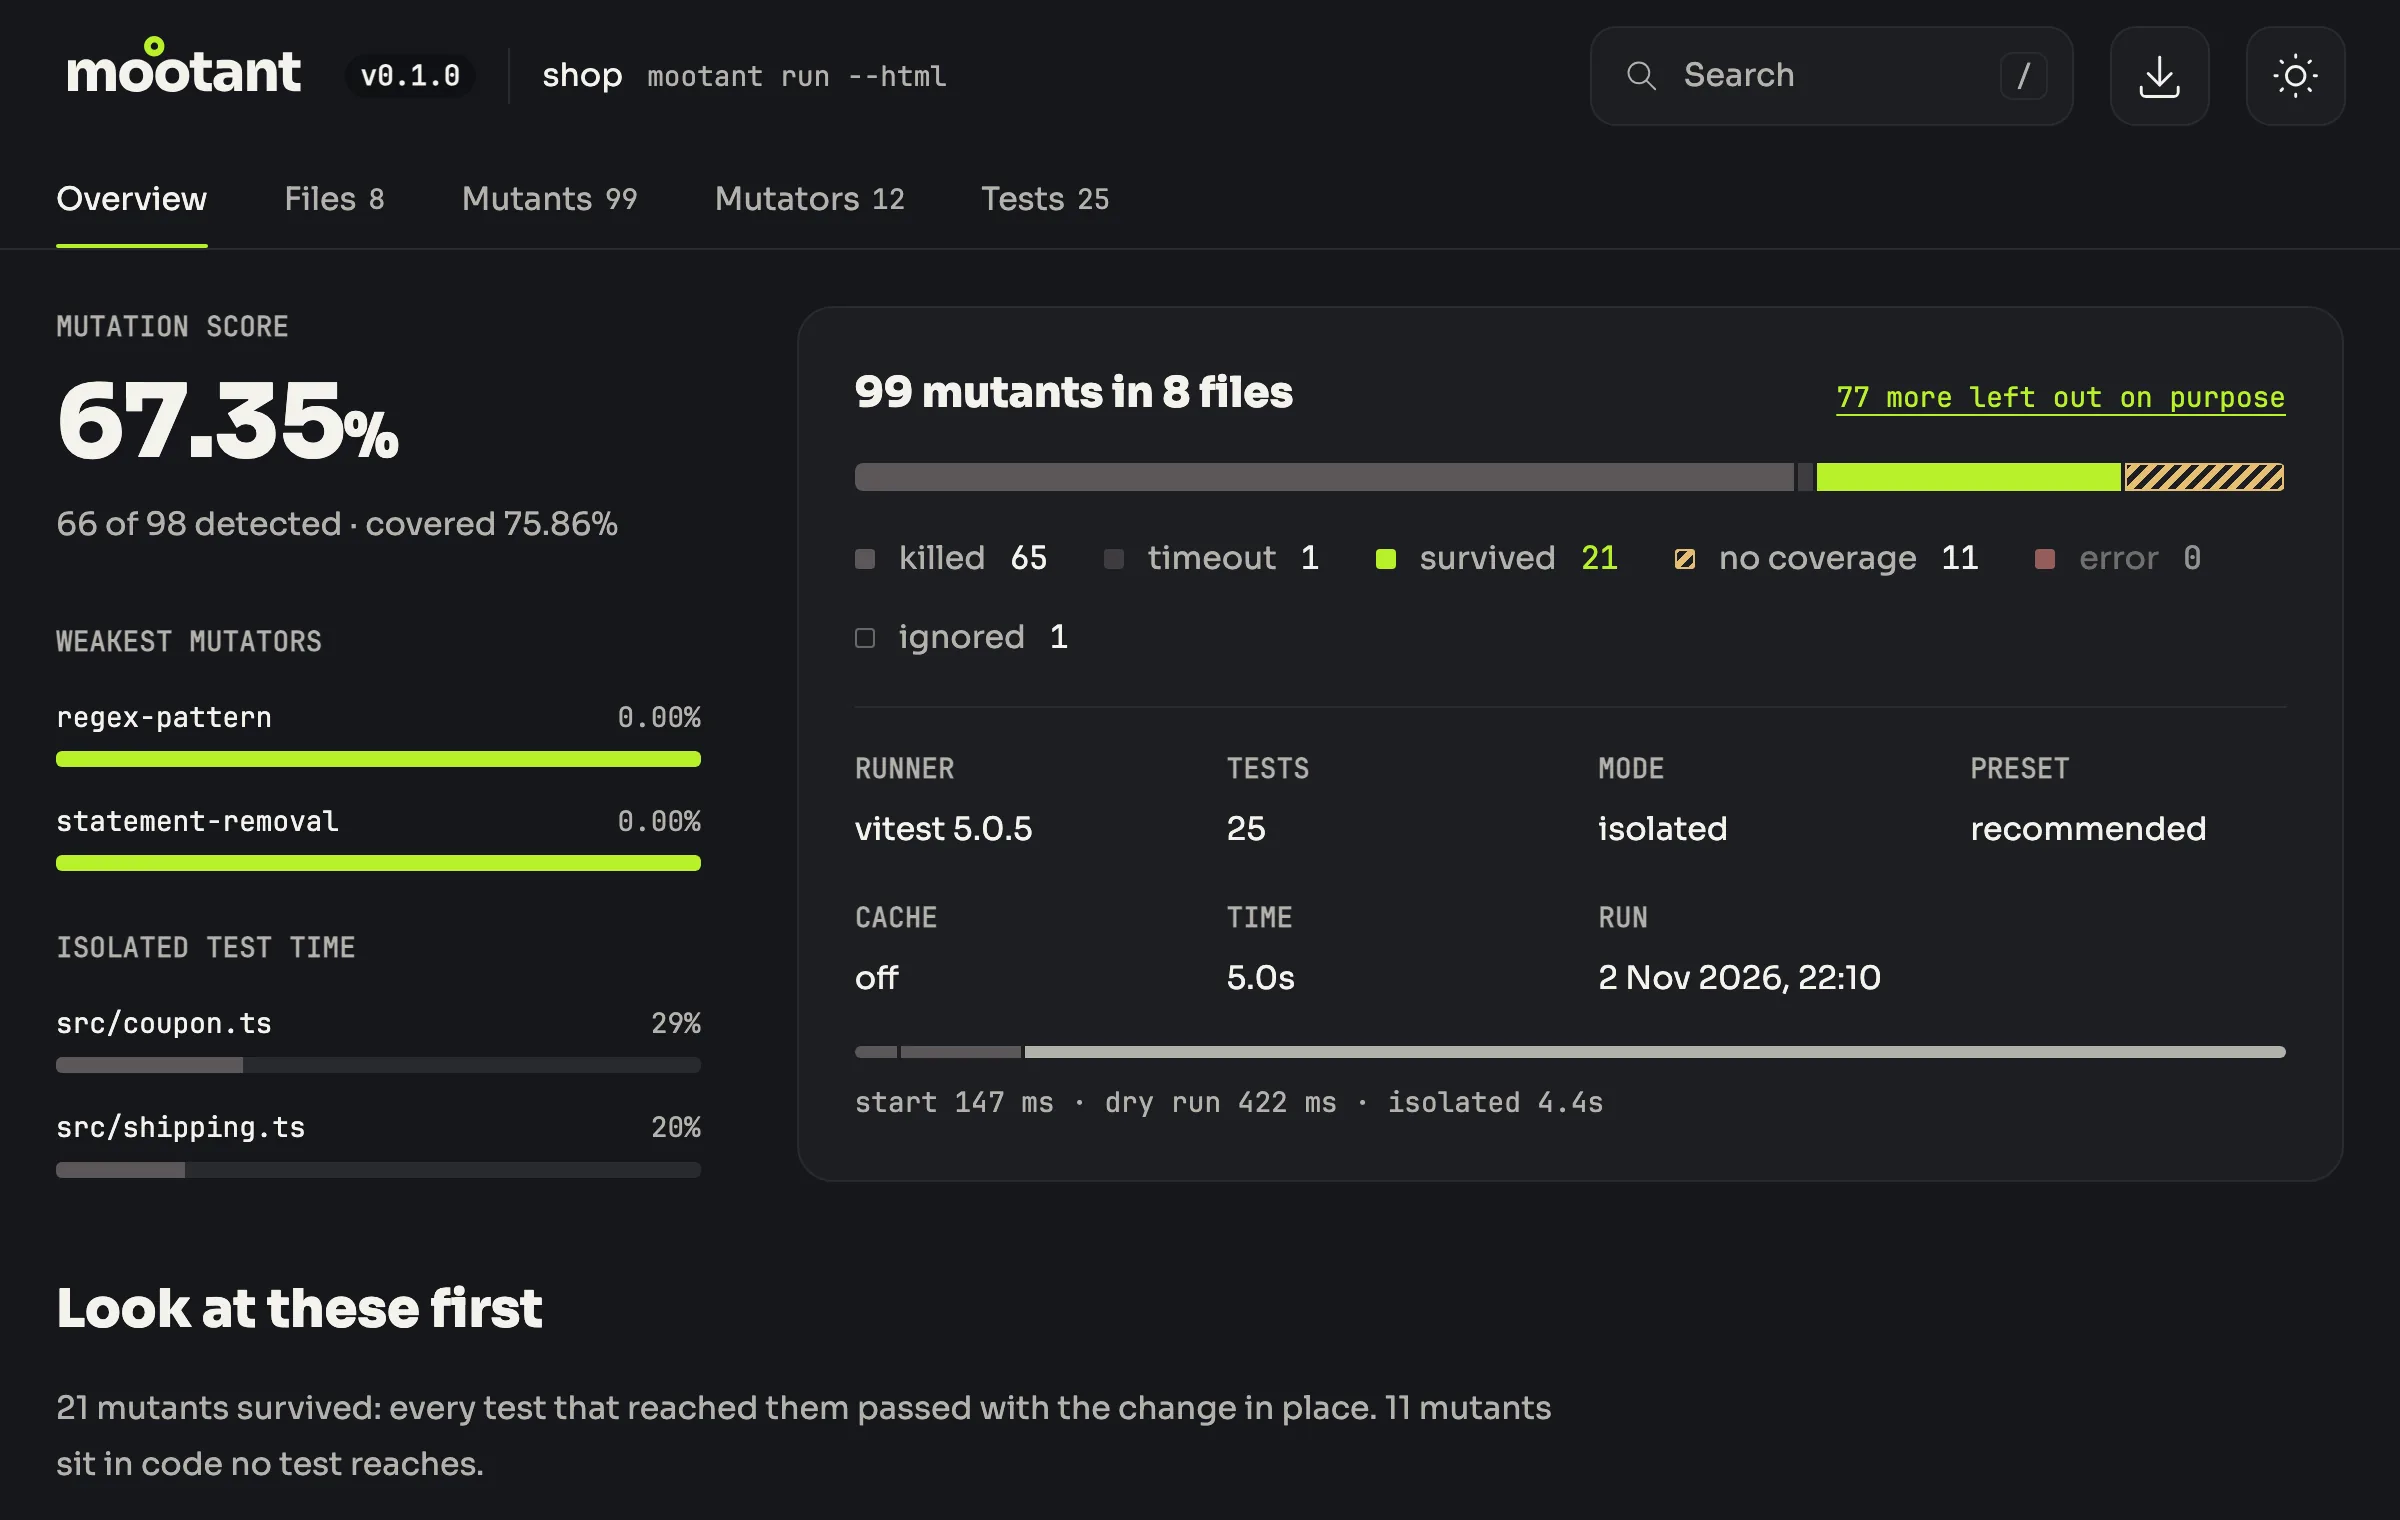
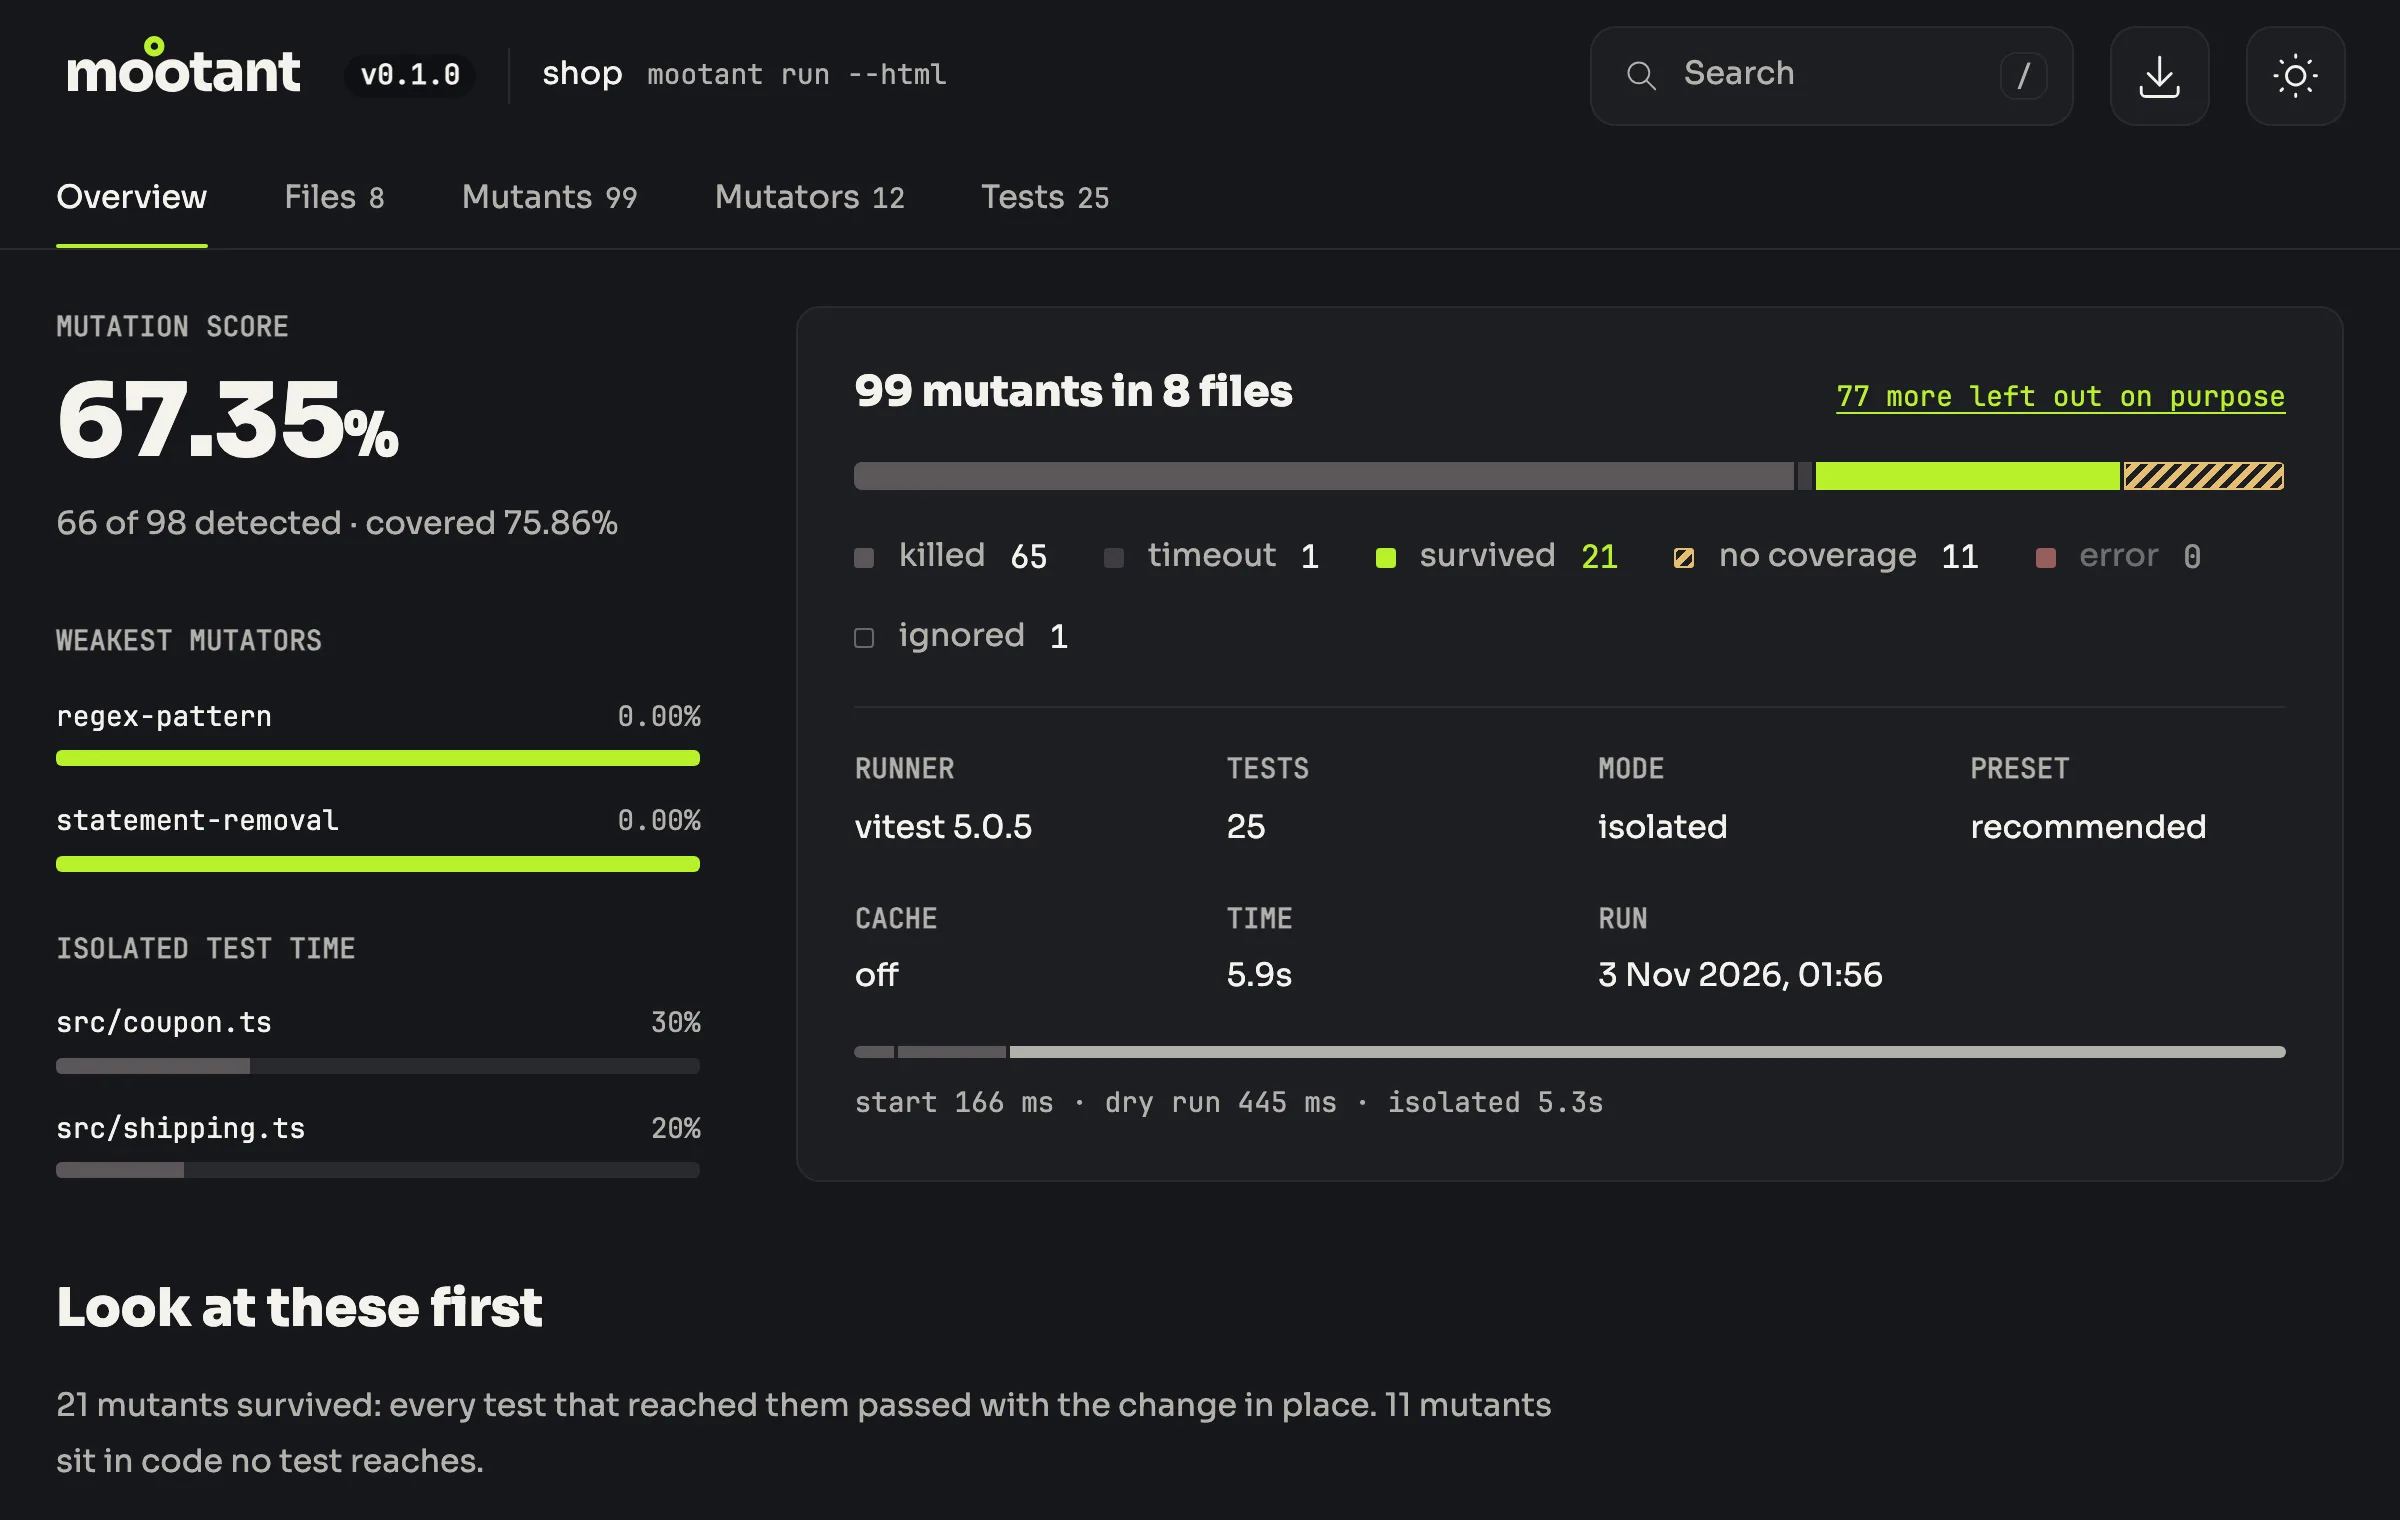
docs: use two border radius sizes

diff --git a/cli/html/report.css b/cli/html/report.css
@@ -17,8 +17,6 @@
 :root {
   --report-tabs-size: 48px;
   --report-on-brand: oklch(20.5% 0.0081 274.52deg);
-  --report-radius-l: calc(var(--border-radius) * 1.5);
-  --report-radius-s: calc(var(--border-radius) - 4px);
   --report-sheet-size: min(55dvb, 30rem);
   --report-survived: var(--color-background-brand);
   --report-survived-text: var(--color-content-brand);
@@ -130,7 +128,6 @@ kbd {
   font: var(--font-size-2xs) / 1.6 var(--font-family-code);
   text-align: center;
   border-block-end-width: 1px;
-  border-radius: calc(var(--border-radius) / 2);
 
   & + & {
     margin-inline-start: 0.3em;
@@ -200,7 +197,7 @@ kbd {
   font: 600 var(--font-size-2xs) / 1 var(--font-family-code);
   white-space: nowrap;
   background: var(--color-background-tertiary);
-  border-radius: var(--border-radius);
+  border-radius: var(--border-radius-m);
 
   @media (width < 600px) {
     display: none;
@@ -263,7 +260,7 @@ kbd {
   cursor: pointer;
   background: var(--color-background-secondary);
   border: none;
-  border-radius: var(--border-radius);
+  border-radius: var(--border-radius-m);
   box-shadow: 0 0 0 1px var(--color-border-primary);
 
   @media (width < 360px) {
@@ -355,7 +352,7 @@ kbd {
   color: var(--color-content-secondary);
   white-space: nowrap;
   text-decoration: none;
-  border-radius: var(--report-radius-s);
+  border-radius: var(--border-radius-s);
   --tab-padding: var(--space-s);
 
   @media (width < 600px) {
@@ -480,7 +477,7 @@ kbd {
 .card {
   background: var(--color-background-secondary);
   border: 1px solid var(--color-border-primary);
-  border-radius: var(--report-radius-l);
+  border-radius: var(--border-radius-m);
 }
 
 .muted {
@@ -639,7 +636,7 @@ kbd {
   font: var(--font-size-2xs) / 1.6 var(--font-family-code);
   white-space: nowrap;
   background: var(--color-background-secondary-hover);
-  border-radius: calc(var(--border-radius) / 1.5);
+  border-radius: var(--border-radius-s);
 }
 
 .change {
@@ -676,7 +673,7 @@ kbd {
   padding: 3px;
   background: var(--color-background-secondary);
   border: 1px solid var(--color-border-primary);
-  border-radius: var(--border-radius);
+  border-radius: var(--border-radius-m);
 }
 
 .segment-button {
@@ -690,7 +687,7 @@ kbd {
   cursor: pointer;
   background: none;
   border: none;
-  border-radius: var(--report-radius-s);
+  border-radius: var(--border-radius-s);
 
   &[aria-pressed='true'] {
     color: var(--color-content-primary);
@@ -716,7 +713,7 @@ kbd {
   padding-inline: var(--space-m) var(--space-2xs);
   background: var(--color-code-background);
   border: 1px solid var(--color-border-primary);
-  border-radius: var(--border-radius);
+  border-radius: var(--border-radius-m);
 
   & code {
     padding: 0;
@@ -748,7 +745,7 @@ kbd {
   cursor: pointer;
   background: var(--color-background-primary);
   border: none;
-  border-radius: var(--report-radius-s);
+  border-radius: var(--border-radius-s);
 
   @media (hover: hover) {
     &:hover {
@@ -785,7 +782,7 @@ kbd {
   cursor: pointer;
   background: var(--color-background-primary);
   border: none;
-  border-radius: var(--report-radius-s);
+  border-radius: var(--border-radius-s);
   box-shadow: 0 0 0 1px var(--color-border-primary);
 
   @media (hover: hover) {
@@ -804,7 +801,7 @@ kbd {
   padding-inline: var(--space-s);
   color: var(--color-content-secondary);
   background: var(--color-background-secondary);
-  border-radius: var(--border-radius);
+  border-radius: var(--border-radius-m);
   box-shadow: 0 0 0 1px var(--color-border-primary);
 
   &:focus-within {
@@ -1434,7 +1431,7 @@ kbd {
   padding: 1px 9px;
   font-size: var(--font-size-2xs);
   border: 1px solid var(--report-survived-text);
-  border-radius: calc(var(--border-radius) / 1.5);
+  border-radius: var(--border-radius-s);
 }
 
 .toolbar {
@@ -1467,7 +1464,7 @@ kbd {
   font-size: var(--font-size-xs);
   color: var(--color-content-secondary);
   background: var(--color-background-secondary);
-  border-radius: var(--border-radius);
+  border-radius: var(--border-radius-m);
   box-shadow: 0 0 0 1px var(--color-border-primary);
 
   & code {
@@ -1488,7 +1485,7 @@ kbd {
   cursor: pointer;
   background: none;
   border: none;
-  border-radius: var(--report-radius-s);
+  border-radius: var(--border-radius-s);
 
   & .icon {
     inline-size: var(--size-icon-s);
@@ -1569,7 +1566,7 @@ kbd {
   font: var(--font-size-2xs) / 1.7 var(--font-family-code);
   color: var(--color-content-primary);
   text-decoration: none;
-  border-radius: var(--report-radius-s);
+  border-radius: var(--border-radius-s);
 
   &.nested {
     padding-inline-start: var(--space-m);
@@ -1657,7 +1654,7 @@ kbd {
   tab-size: 2;
   background: var(--color-code-background);
   border: 1px solid var(--color-border-primary);
-  border-radius: var(--report-radius-l);
+  border-radius: var(--border-radius-m);
 }
 
 .line {
@@ -1806,7 +1803,7 @@ kbd {
       padding: 0;
       margin-block: 0;
       margin-inline: auto;
-      border-radius: var(--report-radius-l);
+      border-radius: var(--border-radius-m);
       box-shadow: 0 12px 48px oklch(0% 0 0deg / 35%);
     }
   }
@@ -1968,7 +1965,7 @@ html:has(.panel .is-detail) {
   scrollbar-width: thin;
   background: var(--color-code-background);
   border: 1px solid var(--color-border-primary);
-  border-radius: var(--border-radius);
+  border-radius: var(--border-radius-m);
 
   & .diff-lines {
     padding-block: var(--space-xs);
@@ -2106,7 +2103,7 @@ html:has(.panel .is-detail) {
   font: var(--font-size-2xs) / 1.6 var(--font-family-code);
   color: inherit;
   text-decoration: none;
-  border-radius: var(--report-radius-s);
+  border-radius: var(--border-radius-s);
 
   & code {
     padding: 0;
@@ -2159,7 +2156,7 @@ html:has(.panel .is-detail) {
   color: var(--color-content-primary);
   background: var(--color-background-primary);
   border: 1px solid var(--color-border-primary);
-  border-radius: var(--border-radius);
+  border-radius: var(--border-radius-m);
   box-shadow: 0 var(--space-s) var(--space-xl) oklch(0% 0 0deg / 25%);
 
   &[open] {
@@ -2205,7 +2202,7 @@ html:has(.panel .is-detail) {
   padding: 8px var(--space-s);
   color: inherit;
   text-decoration: none;
-  border-radius: var(--report-radius-s);
+  border-radius: var(--border-radius-s);
 
   &[aria-selected='true'] {
     background: var(--color-background-primary-hover);

diff --git a/docs/styles/base.css b/docs/styles/base.css
@@ -94,7 +94,7 @@ a {
   text-decoration: underline;
   text-underline-offset: 0.25em;
   outline: none;
-  border-radius: var(--border-radius);
+  border-radius: var(--border-radius-m);
 
   @media (prefers-reduced-motion: no-preference) {
     transition: box-shadow 200ms;
@@ -145,7 +145,7 @@ code {
 }
 
 code {
-  border-radius: calc(var(--border-radius) / 1.5);
+  border-radius: var(--border-radius-s);
 
   &:not(pre code) {
     padding-inline: var(--space-2xs);
@@ -177,7 +177,7 @@ pre {
   overflow-block: scroll;
   outline: none;
   scrollbar-width: none;
-  border-radius: var(--border-radius);
+  border-radius: var(--border-radius-m);
 
   &:focus-visible {
     z-index: 1;
@@ -201,7 +201,7 @@ table {
   font: var(--font-s);
   border-collapse: collapse;
   border-style: hidden;
-  border-radius: var(--border-radius);
+  border-radius: var(--border-radius-m);
   box-shadow: 0 0 0 1px var(--color-border-primary);
 }
 
@@ -241,7 +241,7 @@ kbd {
   background: var(--color-code-background);
   border: 1px solid var(--color-border-primary);
   border-block-end-width: 3px;
-  border-radius: var(--border-radius);
+  border-radius: var(--border-radius-s);
 }
 
 .heading {
@@ -271,7 +271,7 @@ kbd {
   }
 
   &:focus-visible {
-    border-radius: 8px;
+    border-radius: var(--border-radius-s);
     opacity: 100%;
   }
 
@@ -298,7 +298,7 @@ kbd {
   outline: none;
   background: var(--color-background-primary);
   border: none;
-  border-radius: calc(var(--border-radius) - 4px);
+  border-radius: var(--border-radius-s);
 
   @media (prefers-reduced-motion: no-preference) {
     transition: all 200ms ease-in-out;

diff --git a/docs/styles/article.css b/docs/styles/article.css
@@ -92,10 +92,6 @@ article {
     margin-block-start: var(--space-m);
   }
 
-  & kbd {
-    border-radius: calc(var(--border-radius) / 2);
-  }
-
   & blockquote {
     padding-inline-start: var(--space-m);
     margin: var(--space-m) 0;
@@ -115,7 +111,7 @@ article {
     background:
       linear-gradient(to right, var(--color-border-brand) 8px, transparent 8px),
       color-mix(in oklch, var(--color-border-brand) 10%, transparent);
-    border-radius: var(--border-radius);
+    border-radius: var(--border-radius-m);
 
     &:not(:has(strong)) {
       color: var(--color-content-primary);
@@ -138,7 +134,7 @@ article {
         transparent 8px
       ),
       var(--color-background-secondary);
-    border-radius: var(--border-radius);
+    border-radius: var(--border-radius-m);
 
     &::before {
       display: block;
@@ -171,7 +167,7 @@ article {
     margin-block: var(--space-m);
     background: var(--color-background-secondary);
     border: 1px solid var(--color-border-primary);
-    border-radius: var(--border-radius);
+    border-radius: var(--border-radius-m);
 
     & summary {
       font-weight: 600;
@@ -419,7 +415,7 @@ article {
 .card-link {
   background: var(--color-background-secondary);
   border: 1px solid var(--color-border-primary);
-  border-radius: calc(var(--border-radius) * 1.5);
+  border-radius: var(--border-radius-m);
 
   @media (prefers-reduced-motion: no-preference) {
     transition:

diff --git a/docs/styles/spaces.css b/docs/styles/spaces.css
@@ -7,5 +7,6 @@
   --space-l: clamp(1.5rem, 1.3333rem + 0.5556vi, 1.75rem);
   --space-xl: clamp(2rem, 1.3333rem + 2.2222vi, 3rem);
   --space-2xl: clamp(3.5rem, 2.1667rem + 4.4444vi, 5.5rem);
-  --border-radius: 12px;
+  --border-radius-s: clamp(0.375rem, 0.2917rem + 0.2778vi, 0.5rem);
+  --border-radius-m: clamp(0.625rem, 0.5417rem + 0.2778vi, 0.75rem);
 }
